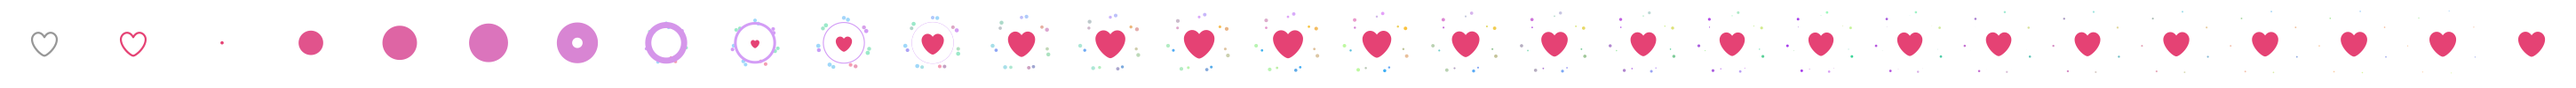
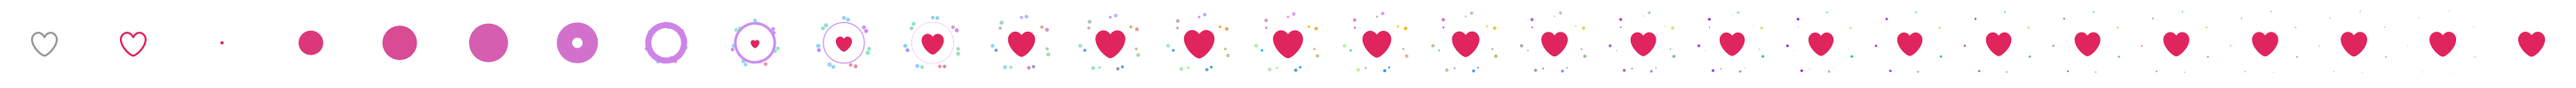
desaturated: correct heart animation color

Changed region(s): [[0.3103, 0.36, 0.9931, 0.63], [0.0931, 0.33, 0.1862, 0.66], [0.031, 0.36, 0.0621, 0.39]]

diff --git a/twitter_desaturated.user.css b/twitter_desaturated.user.css
@@ -1,6 +1,6 @@
 /* ==UserStyle==
 @name Twitter Desaturated
-@version 2.3.0
+@version 2.3.1
 @description Desaturates the Twitter Night Mode, entirely removing the blue tint from the site.
 @author hyperfekt
 @namespace net.hyperfekt
@@ -325,7 +325,7 @@
   }
   /* change favorite icon */
   .HeartAnimation {
[2 lines of base64/hex data omitted]
   }
   .ProfileTweet-action--favorite.is-hoverStateCancelled:hover .ProfileTweet-actionButton, .ProfileTweet-action--favorite.is-hoverStateCancelled:hover .ProfileTweet-actionCount, .ProfileTweet-action--favorite.is-hoverStateCancelled .ProfileTweet-actionButton:focus, .ProfileTweet-action--favorite.is-hoverStateCancelled .ProfileTweet-actionButton:focus .ProfileTweet-actionCount {
     color: #B6B6B6 !important;
